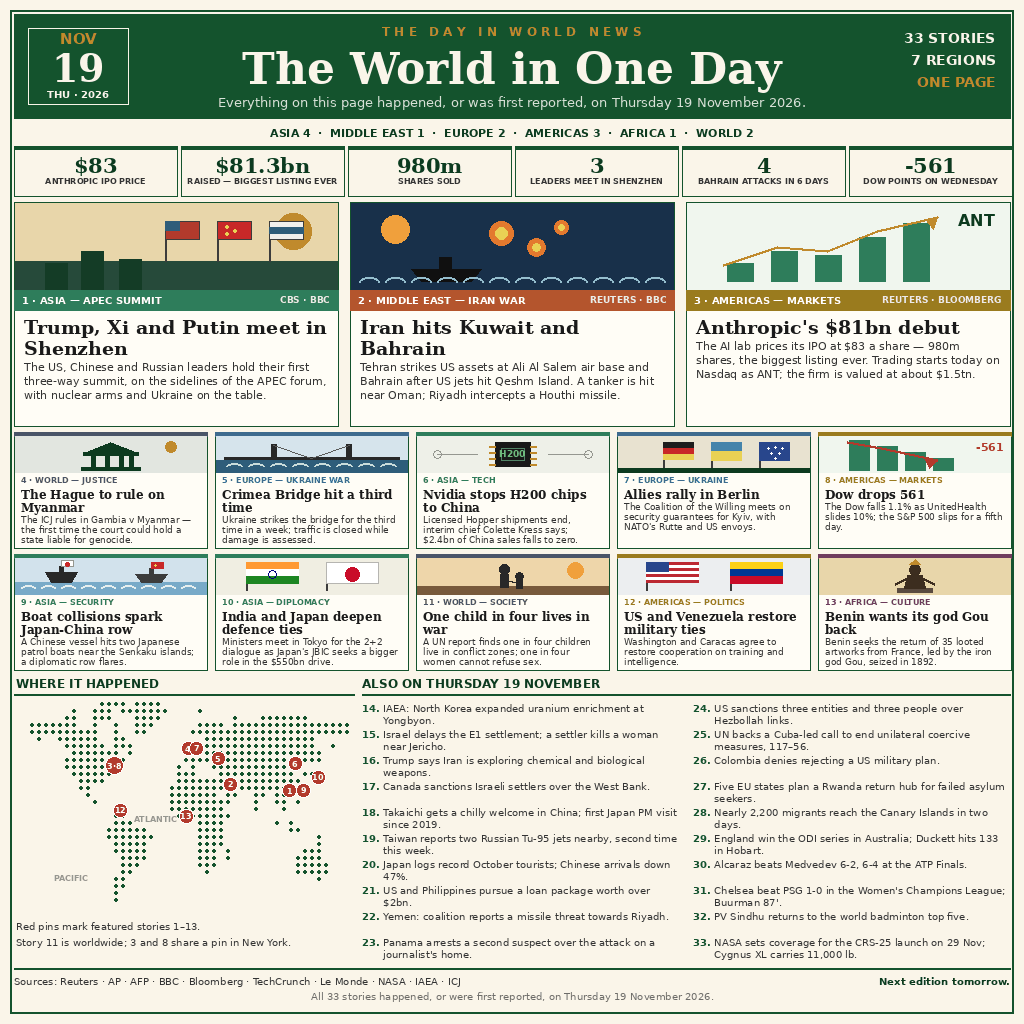
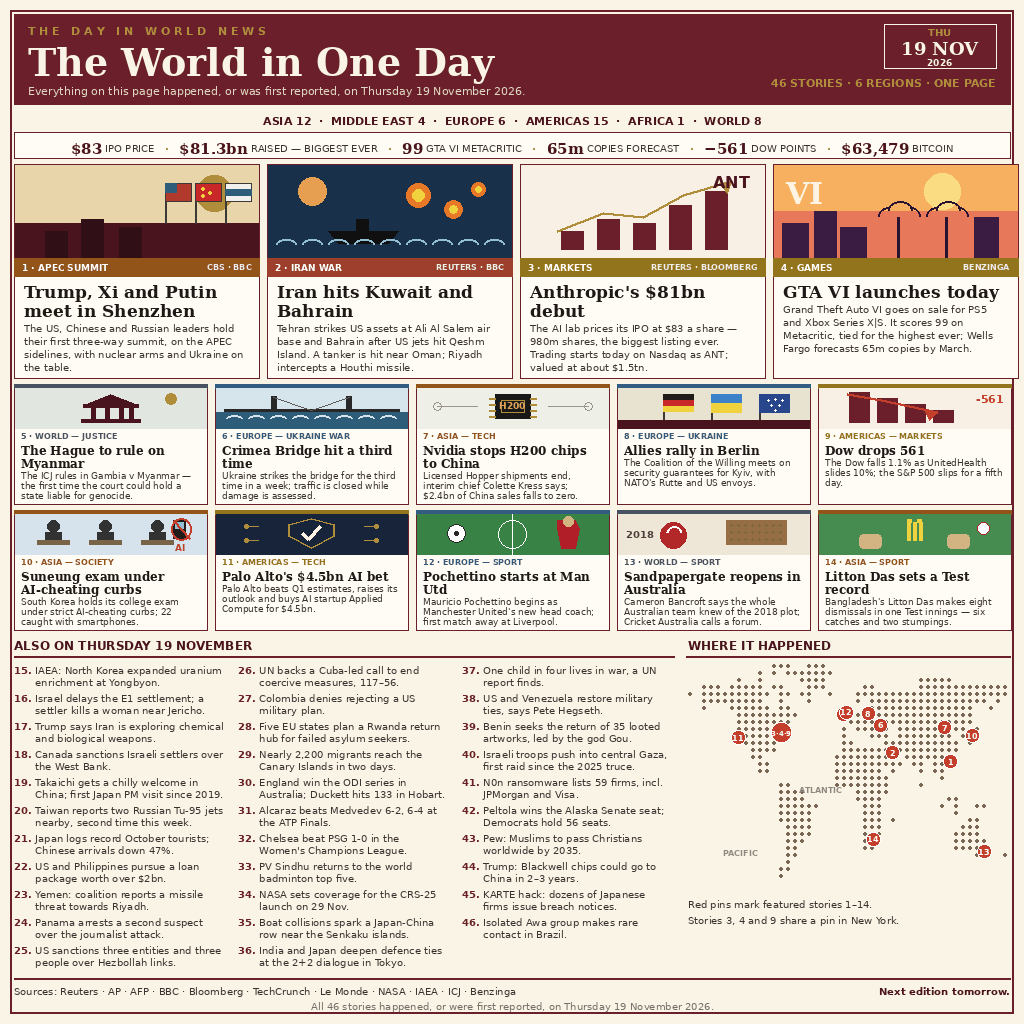
Remake image v4: burgundy front page, 46 stories (14 featured + 32 briefs)
New design: deep burgundy + cream + gold, title-left masthead,
numbers ticker line, 4 large + 10 small featured cards, briefs in
3 columns, dotted world map on the right. More complete news:
46 stories vs 33 in v3 (new: GTA VI launch, Suneung AI-cheating
exam, Palo Alto $4.5bn deal, Pochettino at Man Utd, Sandpapergate,
Litton Das record, Gaza ground push, N0n ransomware, Peltola Senate
win, Pew 2035, Blackwell to China, KARTE hack, Awa contact).

diff --git a/README.md b/README.md
@@ -10,27 +10,28 @@ The World in One Day — one image summing up the world's news of Thursday 19 No
 
 ## The day's news in the image
 
-A dense one-page newspaper front page — 13 featured stories, 20 briefs, a day-in-numbers strip and a dotted world map — drawn programmatically for crisp text.
+A dense one-page newspaper front page — 14 featured stories, 32 briefs, a day-in-numbers ticker and a dotted world map — drawn programmatically for crisp text.
 
 ### Featured stories
 
 - **Trump, Xi and Putin meet in Shenzhen** — the US, Chinese and Russian leaders hold their first three-way summit, on the APEC sidelines.
 - **Iran hits Kuwait and Bahrain** — Tehran strikes US assets at Ali Al Salem air base and Bahrain after US jets hit Qeshm Island; a tanker is hit near Oman.
 - **Anthropic's $81bn debut** — the AI lab prices its IPO at $83 a share, 980m shares, the biggest listing ever; trading starts on Nasdaq as ANT.
+- **GTA VI launches today** — Grand Theft Auto VI goes on sale for PS5 and Xbox; Metacritic 99, tied for the highest ever.
 - **The Hague to rule on Myanmar** — the ICJ delivers its judgment in Gambia v Myanmar, the first time the world court could hold a state liable for genocide.
 - **Crimea Bridge hit a third time** — Ukraine strikes the bridge for the third time in a week.
 - **Nvidia stops H200 chips to China** — licensed Hopper shipments end; $2.4bn of quarterly China sales falls to zero.
 - **Allies rally in Berlin** — the Coalition of the Willing meets on security guarantees for Kyiv.
 - **Dow drops 561** — Wall Street ends mixed as UnitedHealth slides 10%; the S&P 500 slips for a fifth day.
-- **Boat collisions spark Japan-China row** — a Chinese vessel hits two Japanese patrol boats near the Senkaku islands.
-- **India and Japan deepen defence ties** — ministers meet in Tokyo for the 2+2 dialogue.
-- **One child in four lives in war** — a UN report on children in conflict zones.
-- **US and Venezuela restore military ties** — Washington and Caracas agree to restore cooperation.
-- **Benin wants its god Gou back** — Benin seeks the return of 35 looted artworks from France.
+- **Suneung exam under AI-cheating curbs** — South Korea holds its college exam under strict AI-cheating curbs; 22 caught with smartphones.
+- **Palo Alto's $4.5bn AI bet** — Palo Alto beats Q1 estimates, raises its outlook and buys AI startup Applied Compute.
+- **Pochettino starts at Man Utd** — Mauricio Pochettino begins as Manchester United's new head coach.
+- **Sandpapergate reopens in Australia** — Cameron Bancroft says the whole Australian team knew of the 2018 ball-tampering plot.
+- **Litton Das sets a Test record** — Bangladesh's Litton Das makes eight dismissals in one Test innings.
 
 ### Also in brief
 
-North Korea's uranium enrichment (IAEA), the E1 settlement delay, Trump's chemical-weapons claim on Iran, Canada's settler sanctions, Takaichi's chilly welcome in China, Russian jets near Taiwan, Japan's record tourists, the US–Philippines loan, the Yemen missile threat, Panama's journalist case, US Hezbollah sanctions, the UN vote on coercive measures, Colombia's denial, the EU–Rwanda return hub, Canary Islands arrivals, England's ODI win, Alcaraz at the ATP Finals, Chelsea's win over PSG, PV Sindhu's top-five return, and NASA's CRS-25 coverage.
+North Korea's uranium enrichment (IAEA), the E1 settlement delay, Trump's chemical-weapons claim on Iran, Canada's settler sanctions, Takaichi's chilly welcome in China, Russian jets near Taiwan, Japan's record tourists, the US–Philippines loan, the Yemen missile threat, Panama's journalist case, US Hezbollah sanctions, the UN vote on coercive measures, Colombia's denial, the EU–Rwanda return hub, Canary Islands arrivals, England's ODI win, Alcaraz at the ATP Finals, Chelsea's win over PSG, PV Sindhu's top-five return, NASA's CRS-25 coverage, the Japan-China boat row, India-Japan defence ties, one child in four living in war, US–Venezuela military ties, Benin's god Gou claim, Israeli troops in central Gaza, the N0n ransomware list, Peltola's Alaska Senate win, Pew's 2035 projection, Trump's Blackwell remark, the KARTE hack, and the Awa group's rare contact in Brazil.
 
 ## How it works
 
